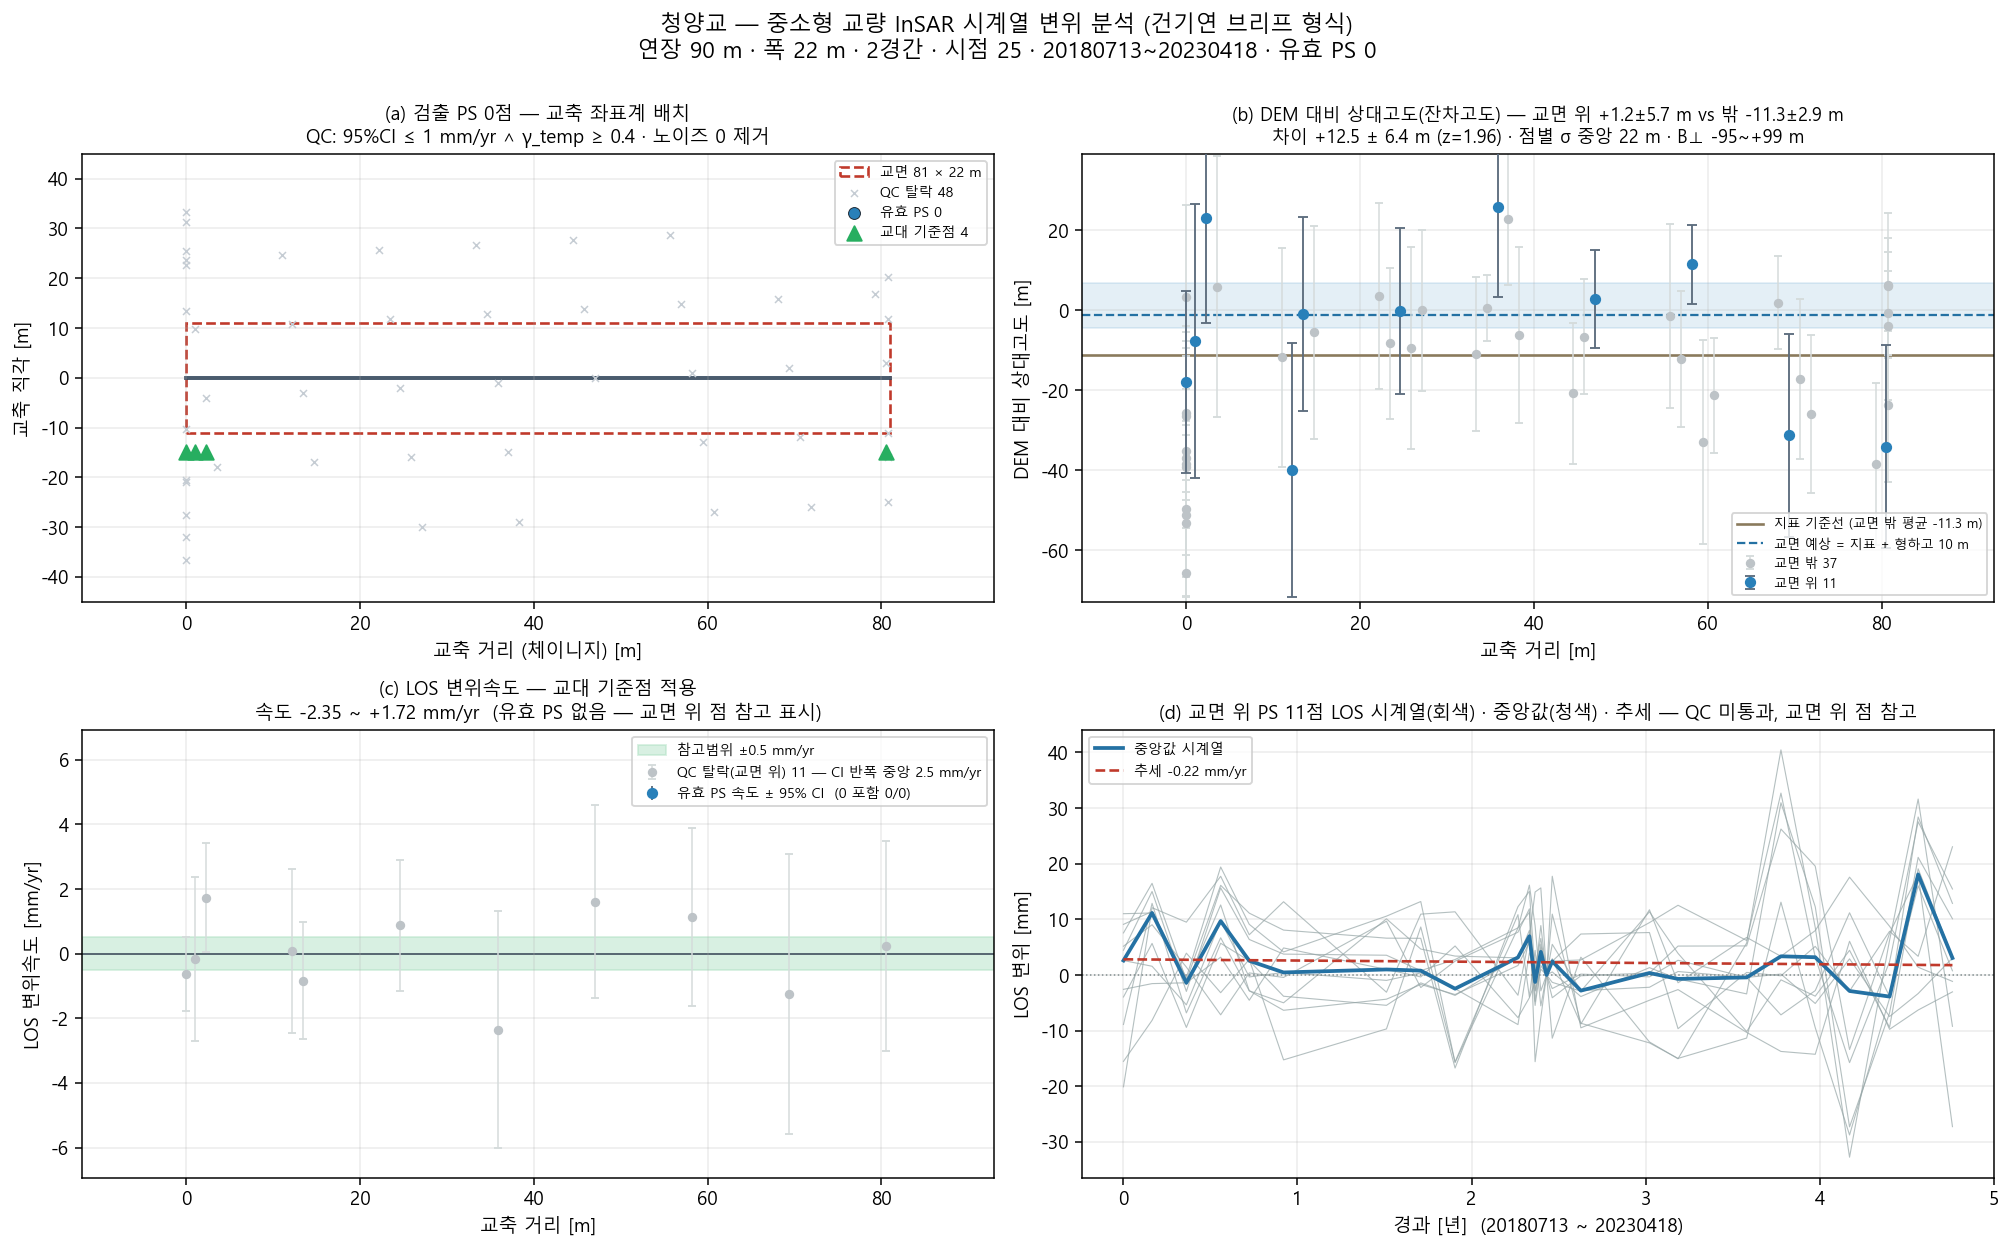
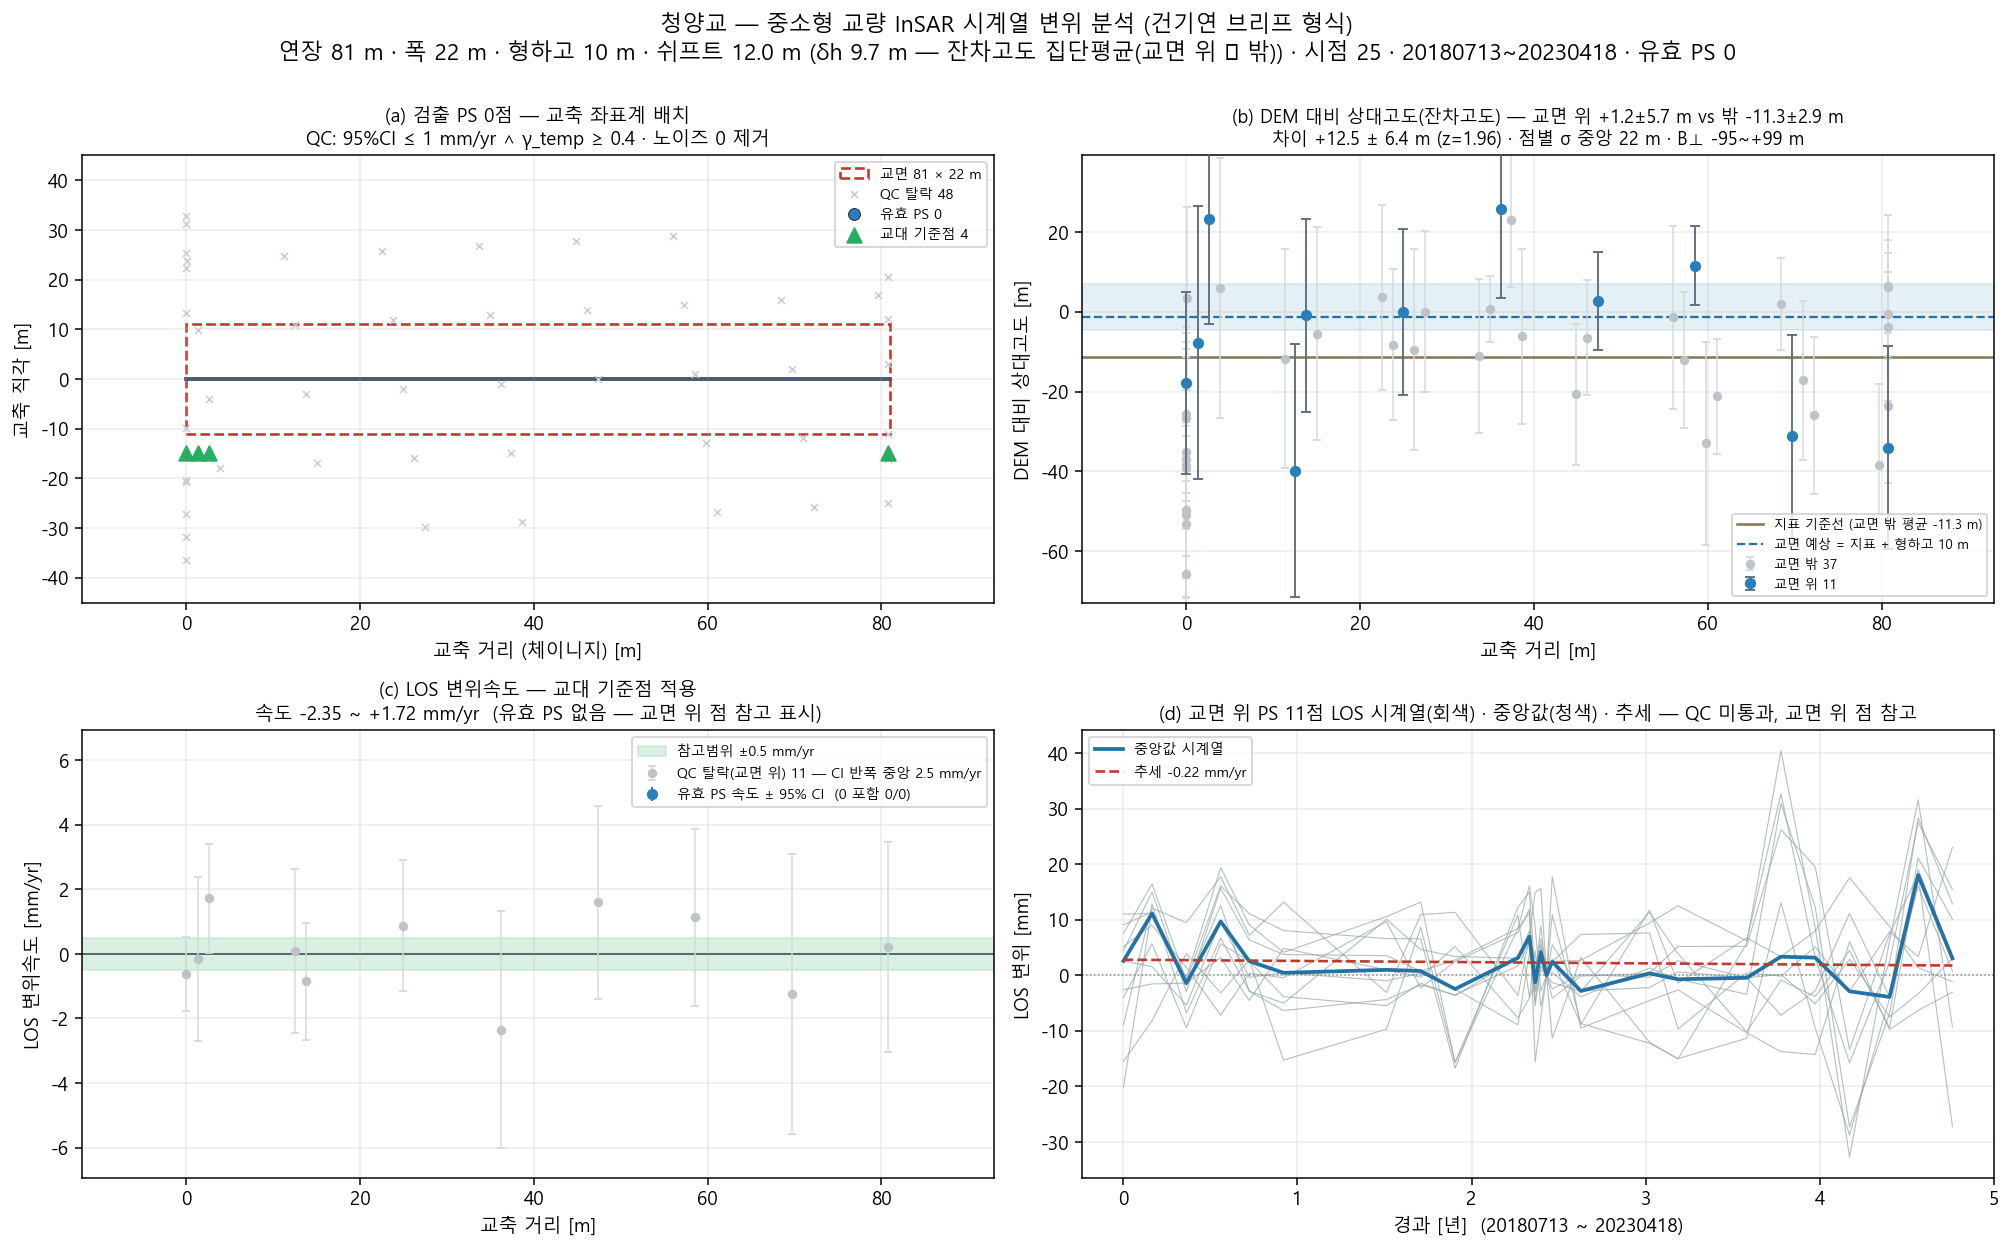
feat: 쉬프트 크기 δh 를 잔차고도 집단평균으로 — 가정이 관측으로
쉬프트 = δh/tanθ. 방향은 궤도 heading 이 정하므로 조정 대상이 아니고(어제 라디안 오류
교정으로 끝), 크기 δh 는 지금까지 형하고를 가정했다. 잔차고도(PSI 높이)가 트랙에 있으면
교면 위 점과 밖 점의 가중평균 차이를 δh 로 쓴다(resolve_shift_dh).

점별 잔차고도는 쓰지 않는다 — σ 20 m 급이라 점별 쉬프트 잡음이 σ/tanθ ≈ 27 m 로 화소
(11 m)보다 커져 배치가 망가진다. 집단 차이가 z<1 이거나 음수면 가정을 유지하고 사유를
남긴다. 교면 위 판정은 보정 전 좌표에 반폭+화소/2 로 넉넉히.

청양교: δh 9.7 ± 5.3 m (z 1.84, 교면 위 27 vs 밖 21) → 쉬프트 12.0 m. 형하고 가정
(10 m → 12.3 m)과 사실상 같다 — 관측이 가정을 확인했다. 정자교는 B⊥ 없음 → 가정 유지.
근거는 프로파일 shift 메타(dh_source·residual_diff·z)와 브리프 그림 머리말에 남는다.

테스트 4건, 1044 통과.

diff --git a/src/inframon/insar/chainage.py b/src/inframon/insar/chainage.py
@@ -366,6 +366,52 @@ def _velocity(tr: dict) -> np.ndarray:
     return (los[:, -1] - los[:, 0])          # 관측기간 총 변위(속도 아님 — meta 에 표기)
 
 
+def resolve_shift_dh(tr: dict, station0: np.ndarray, offset0: np.ndarray, length_m: float,
+                     *, fallback_m: float | None, half_width_m: float | None,
+                     min_z: float = 1.0) -> tuple[float | None, dict]:
+    """쉬프트 크기 δh — **잔차고도 집단평균이 있으면 그것, 없으면 형하고 가정**.
+
+    쉬프트 = δh/tanθ 인데 δh 를 지금까지 형하고로 가정했다. 트랙에 잔차고도(PSI 높이)가
+    있으면 교면 위 점과 밖 점의 가중평균 차이를 δh 로 쓴다 — 가정이 관측으로 바뀐다.
+
+    점별 잔차고도는 쓰지 않는다. σ 가 20 m 급이라 점별로 적용하면 쉬프트 잡음이 σ/tanθ ≈
+    27 m 로 화소(11 m)보다 커져 배치가 망가진다. 집단 차이가 z < min_z 면 관측이 가정보다
+    나을 근거가 없으므로 가정을 유지하고 그 사실을 남긴다.
+    교면 위 판정은 보정 **전** 좌표로 하되 반폭+화소/2 로 넉넉히 잡는다(보정으로 안팎이
+    바뀌는 점을 한쪽으로 몰지 않기 위해).
+    """
+    rh = tr.get("residual_height_m")
+    rs = tr.get("residual_height_sigma_m")
+    meta = {"dh_source": "형하고 가정", "dh_m": fallback_m}
+    if rh is None or rs is None or half_width_m is None:
+        return fallback_m, meta
+    rh, rs = np.asarray(rh, float), np.asarray(rs, float)
+    ok = np.isfinite(rh) & np.isfinite(rs) & (rs > 0)
+    if ok.sum() < 4:
+        return fallback_m, meta
+    from .deck_shift import PIXEL_M
+    on = ok & (np.abs(offset0) <= half_width_m + PIXEL_M / 2) & (station0 >= -2) \
+        & (station0 <= length_m + 2)
+    off = ok & ~on
+    if on.sum() < 2 or off.sum() < 2:
+        meta["reason"] = f"교면 위 {int(on.sum())} · 밖 {int(off.sum())} — 집단평균 불가"
+        return fallback_m, meta
+    wa, wb = 1.0 / rs[on] ** 2, 1.0 / rs[off] ** 2
+    ma, mb = float(np.sum(wa * rh[on]) / wa.sum()), float(np.sum(wb * rh[off]) / wb.sum())
+    se = float(np.hypot(1.0 / np.sqrt(wa.sum()), 1.0 / np.sqrt(wb.sum())))
+    diff = ma - mb
+    z = diff / se if se > 0 else 0.0
+    info = {"residual_diff_m": diff, "residual_se_m": se, "z": z,
+            "n_on": int(on.sum()), "n_off": int(off.sum())}
+    if diff <= 0 or z < min_z:
+        meta.update(info, reason=f"잔차고도 차이 {diff:+.1f}±{se:.1f} m (z={z:.2f}) — "
+                                 f"가정({fallback_m}) 유지")
+        return fallback_m, meta
+    meta.update(info, dh_source="잔차고도 집단평균(교면 위 − 밖)", dh_m=float(diff),
+                fallback_m=fallback_m)
+    return float(diff), meta
+
+
 def build_profile(track_h5: str | Path, geometry_latlon, *,
                   bin_m: float = DEFAULT_BIN_M, min_quality: float | None = None,
                   mode: str = "relaxed", denoise: bool = True,
@@ -407,14 +453,20 @@ def build_profile(track_h5: str | Path, geometry_latlon, *,
         from .track_reader import normalize_heading_deg
         heading = float(normalize_heading_deg(
             float(tr["attrs"].get("HEADING", 0.0) or 0.0)))     # 라디안 유입 방어
+        # δh: 잔차고도 집단평균이 있으면 관측값, 없으면 형하고 가정
+        st0, of0 = project_to_polyline(ll, geometry_latlon)
+        dh, dh_meta = resolve_shift_dh(
+            tr, st0, of0, float(_polyline_length_m(np.asarray(geometry_latlon, float))),
+            fallback_m=float(bridge_height_m),
+            half_width_m=(float(bridge_width_m) / 2.0 if bridge_width_m else None))
         g = for_bridge(geometry_latlon, heading_deg=heading,
                        incidence_deg=float(np.nanmedian(inc)),
-                       dh_m=float(bridge_height_m), width_m=bridge_width_m)
-        r = apply_correction(ll, np.full(ll.shape[0], float(bridge_height_m)), inc,
+                       dh_m=float(dh), width_m=bridge_width_m)
+        r = apply_correction(ll, np.full(ll.shape[0], float(dh)), inc,
                              heading, crs_is_lonlat=True, set_height=False)
         ll = np.asarray(r["xyz"], float)[:, :2]
         shift_meta = {**g.as_dict(), "applied": True,
-                      "mean_abs_m": float(np.mean(r["shift_m"]))}
+                      "mean_abs_m": float(np.mean(r["shift_m"])), **dh_meta}
 
     station, offset = project_to_polyline(ll, geometry_latlon)
     offset = _signed_offset(ll, geometry_latlon, offset)   # 좌/우를 부호로 — 데크 단면이 보인다

diff --git a/tests/test_chainage.py b/tests/test_chainage.py
@@ -246,3 +246,41 @@ def test_교대_구역에_점이_없으면_기준점을_안_건드린다():
     out, meta = reference_to_abutment(los, st, 100.0)
     assert not meta["applied"] and np.array_equal(out, los)
     assert "2개 미만" in meta["reason"]
+
+
+# ── 쉬프트 δh: 잔차고도 집단평균 우선 ────────────────────────────────────
+from inframon.insar.chainage import resolve_shift_dh  # noqa: E402
+
+
+def _rh_track(on_dh, off_dh, sigma=3.0, n=20):
+    st = np.linspace(0, 100, n)
+    of = np.where(np.arange(n) % 2 == 0, 2.0, 40.0)        # 짝수=교면 위, 홀수=밖
+    rh = np.where(of < 10, on_dh, off_dh) + np.random.default_rng(0).normal(0, sigma, n)
+    return {"residual_height_m": rh, "residual_height_sigma_m": np.full(n, sigma)}, st, of
+
+
+def test_잔차고도가_있으면_집단평균_차이를_δh로_쓴다():
+    tr, st, of = _rh_track(10.0, 0.0)
+    dh, meta = resolve_shift_dh(tr, st, of, 100.0, fallback_m=6.0, half_width_m=10.0)
+    assert meta["dh_source"].startswith("잔차고도")
+    assert abs(dh - 10.0) < 3.0 and meta["z"] > 1.0
+    assert meta["fallback_m"] == 6.0
+
+
+def test_잔차고도가_없으면_형하고_가정():
+    dh, meta = resolve_shift_dh({}, np.zeros(3), np.zeros(3), 100.0, fallback_m=6.0,
+                                half_width_m=10.0)
+    assert dh == 6.0 and meta["dh_source"] == "형하고 가정"
+
+
+def test_집단_차이가_유의하지_않으면_가정을_유지하고_사유를_남긴다():
+    tr, st, of = _rh_track(0.5, 0.0, sigma=6.0)
+    dh, meta = resolve_shift_dh(tr, st, of, 100.0, fallback_m=6.0, half_width_m=10.0)
+    assert dh == 6.0 and "유지" in meta["reason"]
+
+
+def test_점별_잔차고도는_쓰지_않는다():
+    """σ 20 m 급 점별 값을 쓰면 쉬프트 잡음이 화소보다 커진다 — 항상 스칼라 δh."""
+    tr, st, of = _rh_track(10.0, 0.0, sigma=20.0)
+    dh, _ = resolve_shift_dh(tr, st, of, 100.0, fallback_m=6.0, half_width_m=10.0)
+    assert isinstance(dh, float)

diff --git a/scripts/make_brief_figure.py b/scripts/make_brief_figure.py
@@ -233,6 +233,9 @@ def main() -> None:
     axx.grid(alpha=.25)
 
     head = a.meta or f"연장 {L:.0f} m · 폭 {a.width:g} m · 형하고 {a.height:g} m"
+    if prof.shift and prof.shift.get("applied"):
+        head += (f" · 쉬프트 {prof.shift['mean_abs_m']:.1f} m "
+                 f"(δh {prof.shift['dh_m']:.1f} m — {prof.shift['dh_source']})")
     fig.suptitle(f"{a.bridge} — 중소형 교량 InSAR 시계열 변위 분석 (건기연 브리프 형식)\n"
                  f"{head} · 시점 {los.shape[1]} · {t0}~{t1} · 유효 PS {int(sel.sum())}",
                  fontsize=12, y=1.0)
